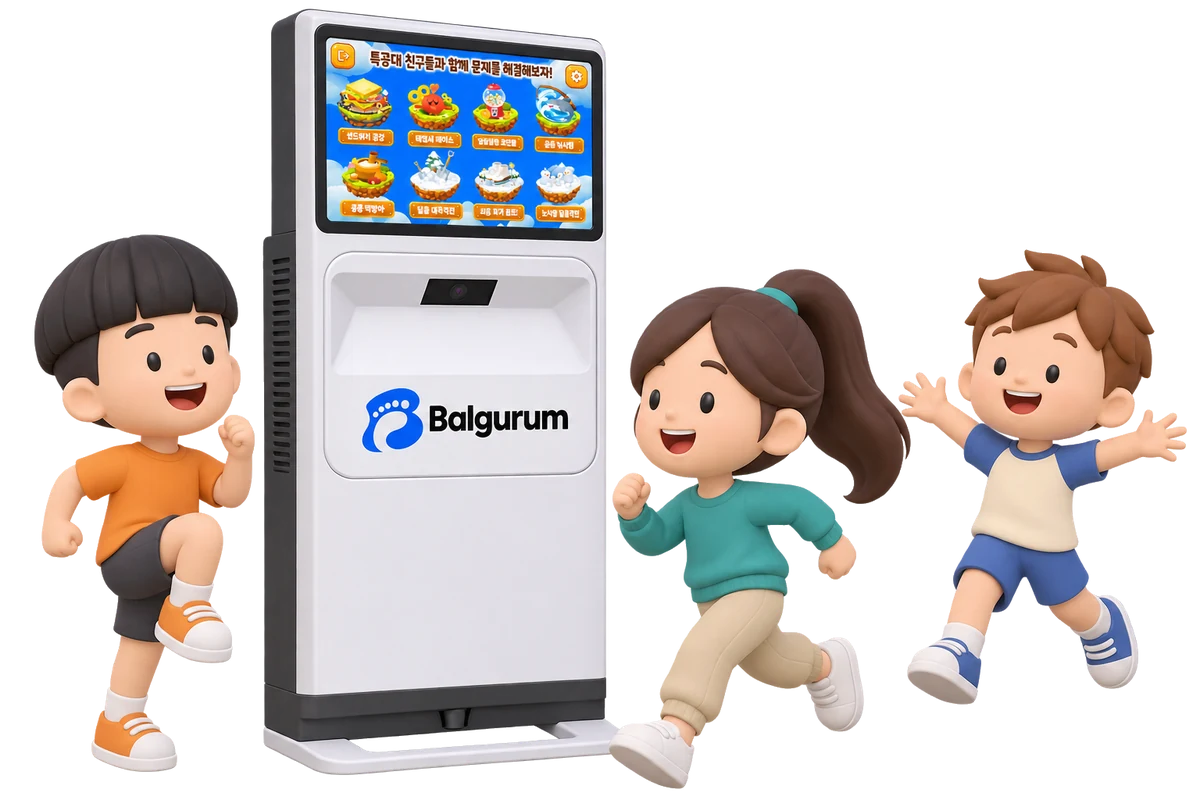
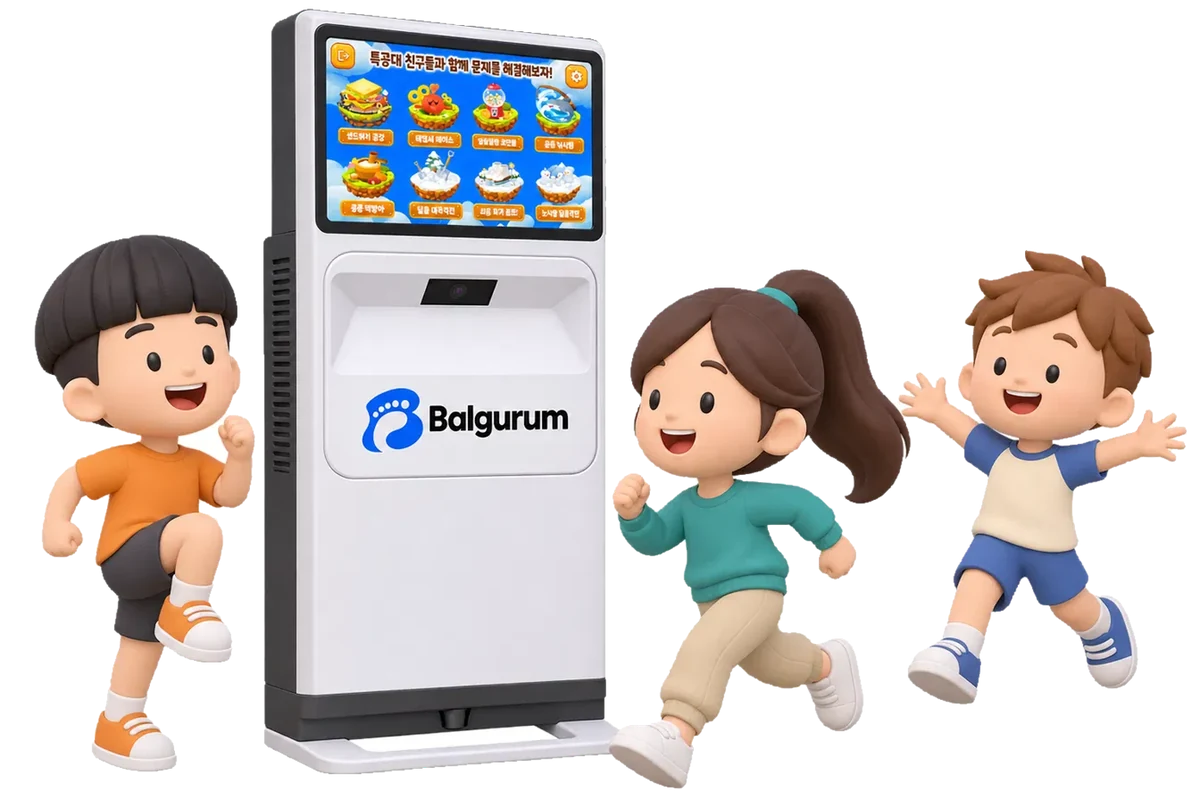
About cover: new kids scenes, slightly smaller
Claude-Session: https://claude.ai/code/session_017aKstFPrEwJGuv6yejYsHQ

diff --git a/index.html b/index.html
@@ -1630,7 +1630,7 @@ html[data-route="story"] footer *{color:rgba(255,255,255,.85)!important}
 /* Kids art sized to the device, gradient letters */
 @media (min-width:821px){
   .ab-cover{--dw:min(21vw,46vh,440px)}
-  .ab-kids{top:calc(50% - var(--dw) * .55 - var(--dw) * .14)!important;bottom:auto!important;height:calc(var(--dw) * 2.168 / .93)!important;max-width:none!important}
+  .ab-kids{top:calc(50% - var(--dw) * .55 - var(--dw) * .12)!important;bottom:auto!important;height:calc(var(--dw) * 2.168 / 1.05)!important;max-width:none!important}
 }
 @media (min-width:821px) and (max-aspect-ratio:1/1){.ab-cover{--dw:min(30vw,34vh,440px)}}
 .ab-word .ch>i{background:linear-gradient(180deg,#fff 0%,#fff 35%,rgba(255,255,255,.55) 72%,rgba(255,255,255,.08) 100%);-webkit-background-clip:text;background-clip:text;color:transparent;-webkit-text-fill-color:transparent}
